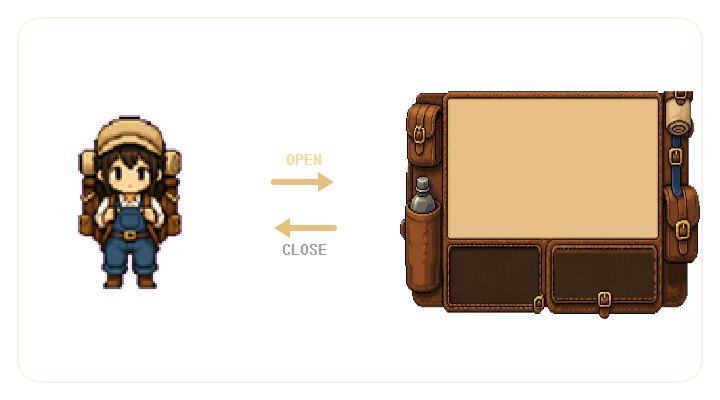
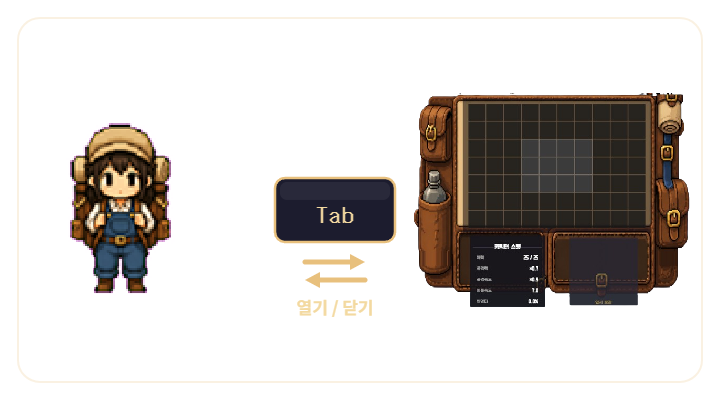
[Feat] 튜토리얼 5페이지 개편 — 인스펙터 단일 소스화
- 페이지를 인스펙터 pages 배열 단일 소스로 이관. 코드의 BuildDefaultPages()와
  Sprite 필드(moveImage 등) 제거, Open()에 빈 배열 가드 추가.
- 5페이지 구성: 이동 / 배낭(Tab) / 아이템 배치 / 가방 칸 확장 / 엘리트 방·계단.
- 이미지: 02_backpack을 Tab 안내로 교체, 03_item_place·04_expand_zone 추가,
  03_elite_stairs→05_elite_stairs 재명명. 전부 spriteMode Single.
- 프리팹 pages에 5페이지(제목/본문/이미지) 세팅.

Changed region(s): [[0.3667, 0.21, 0.9778, 0.81], [0.0917, 0.27, 0.275, 0.75], [0.3972, 0.75, 0.5194, 0.81]]

diff --git a/Assets/02.Scripts/07.UI/TutorialController.cs b/Assets/02.Scripts/07.UI/TutorialController.cs
@@ -26,13 +26,8 @@ namespace BagSurvivor.UI
             public Sprite image; // 비워 두면 이미지 영역 숨김
         }
 
-        [Header("페이지 (비어 있으면 코드 기본값 사용)")]
+        [Header("페이지 (인스펙터에서 편집 — 순서대로 표시)")]
         [SerializeField] private TutorialPage[] pages;
-
-        [Header("기본 페이지 이미지 (인스펙터 pages 비울 때 사용)")]
-        [SerializeField] private Sprite moveImage;
-        [SerializeField] private Sprite corridorImage;
-        [SerializeField] private Sprite eliteStairsImage;
 
         [Header("동작 설정")]
         [Tooltip("켜면 PlayerPrefs를 무시하고 플레이할 때마다 항상 표시 (개발/테스트용 — 출시 전 끌 것)")]
@@ -104,7 +99,12 @@ namespace BagSurvivor.UI
 
         public void Open()
         {
-            _activePages = (pages != null && pages.Length > 0) ? pages : BuildDefaultPages();
+            if (pages == null || pages.Length == 0)
+            {
+                Debug.LogWarning("[Tutorial] 표시할 페이지가 없습니다. 인스펙터의 Pages를 채우세요.");
+                return;
+            }
+            _activePages = pages;
             _index = 0;
             ShowPage(_index);
             SetVisible(true);
@@ -150,32 +150,6 @@ namespace BagSurvivor.UI
             if (_nextLabel != null)
                 _nextLabel.text = (i >= _activePages.Length - 1) ? "닫기" : "다음";
         }
-
-        // ─────────────────────────────────────────────────────────────
-        // 기본 페이지 (인스펙터가 비어 있을 때)
-
-        private TutorialPage[] BuildDefaultPages() => new[]
-        {
-            new TutorialPage
-            {
-                title = "이동",
-                body  = "WASD 키로 캐릭터를 상하좌우로 이동합니다.",
-                image = moveImage,
-            },
-            new TutorialPage
-            {
-                title = "복도",
-                body  = "복도에서 배낭을 열고 닫을 수 있습니다.",
-                image = corridorImage,
-            },
-            new TutorialPage
-            {
-                title = "엘리트 방 / 계단",
-                body  = "문이 있는 방에 들어가면 엘리트를 처치할 때까지 밖으로 나갈 수 없습니다.\n" +
-                        "엘리트를 처치하면 다음 층으로 내려가는 계단이 생성됩니다.",
-                image = eliteStairsImage,
-            },
-        };
 
         // ─────────────────────────────────────────────────────────────
         // UI 빌드 (런타임 코드 생성)
